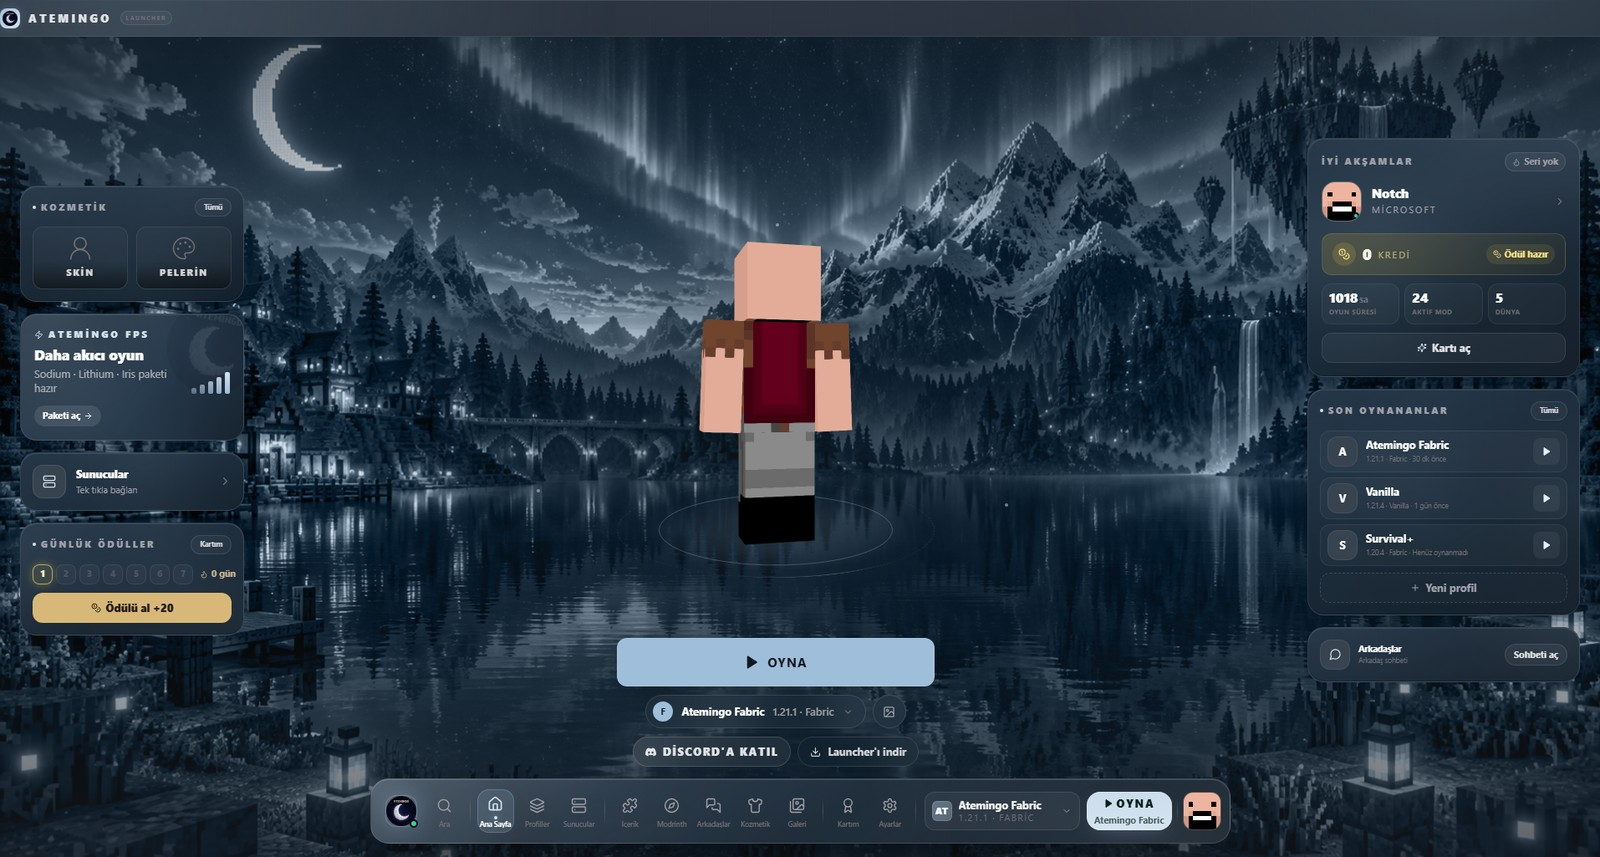
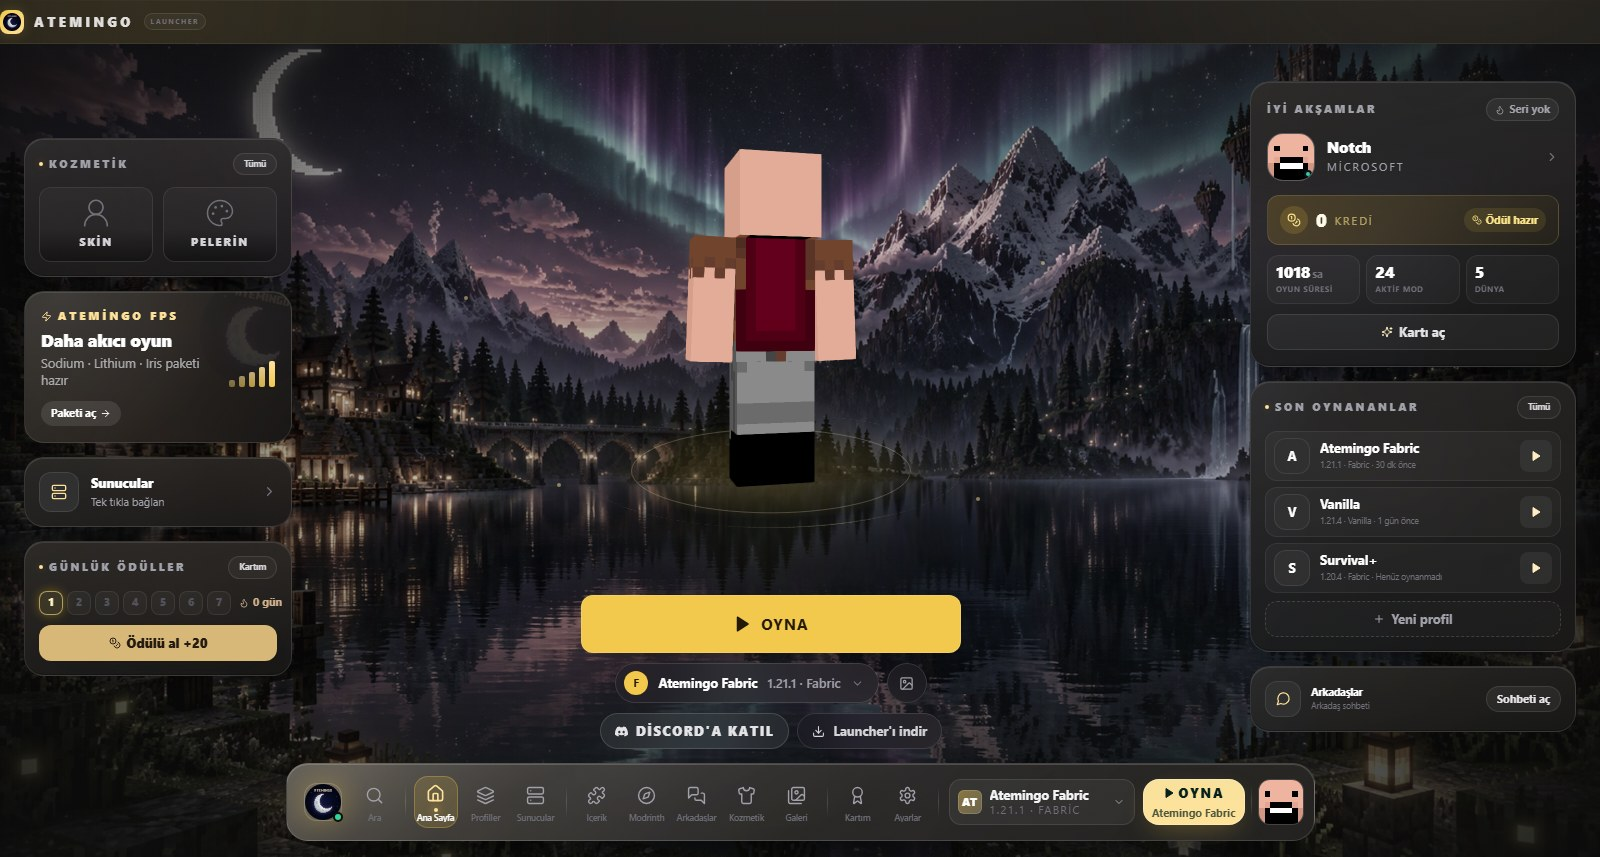
Site: 2.1.4 altın tema ekran görüntüsü ve SEO güncellemesi

diff --git a/index.html b/index.html
@@ -3,21 +3,66 @@
   <head>
     <meta charset="UTF-8" />
     <meta name="viewport" content="width=device-width, initial-scale=1" />
-    <meta name="theme-color" content="#090716" />
+    <meta name="theme-color" content="#0d0c0b" />
     <meta
       name="description"
-      content="Atemingo Launcher ile Minecraft profillerini, modlarını ve sunucularını tek bir yerden yönet. Windows ve Linux için ücretsiz."
+      content="Atemingo Launcher ile Minecraft profillerini, Modrinth modlarını, sunucularını, pelerinlerini ve nişangahlarını tek ekrandan yönet. Windows 10/11 ve Linux için ücretsiz."
+    />
+    <meta
+      name="keywords"
+      content="atemingo, minecraft launcher, ücretsiz minecraft launcher, modrinth, fabric, minecraft mod, minecraft sunucu, pelerin, crosshair, linux minecraft launcher"
     />
     <meta name="color-scheme" content="dark" />
+    <link rel="canonical" href="https://atemingo.github.io/AtemingoLauncher/" />
     <meta property="og:type" content="website" />
-    <meta property="og:title" content="Atemingo Launcher — Macera burada başlar" />
+    <meta property="og:site_name" content="Atemingo Launcher" />
+    <meta property="og:locale" content="tr_TR" />
+    <meta property="og:locale:alternate" content="en_US" />
+    <meta property="og:url" content="https://atemingo.github.io/AtemingoLauncher/" />
+    <meta property="og:title" content="Atemingo Launcher — Ücretsiz Minecraft Launcher (Windows &amp; Linux)" />
     <meta
       property="og:description"
-      content="Profiller, modlar, Modrinth, sunucular ve arkadaşlar. Minecraft'ı tek tıkla, kendi tarzında oyna."
+      content="Profiller, Modrinth modları, sunucular, pelerin ve nişangah stüdyosu tek ekranda. Windows 10/11 ve Linux için ücretsiz."
     />
     <meta property="og:image" content="https://atemingo.github.io/AtemingoLauncher/launcher.jpg" />
+    <meta property="og:image:width" content="1600" />
+    <meta property="og:image:height" content="857" />
+    <meta property="og:image:alt" content="Atemingo Launcher ana ekranı — altın temalı arayüz" />
     <meta name="twitter:card" content="summary_large_image" />
-    <title>Atemingo Launcher — Macera burada başlar</title>
+    <meta name="twitter:title" content="Atemingo Launcher — Ücretsiz Minecraft Launcher" />
+    <meta
+      name="twitter:description"
+      content="Profiller, Modrinth modları, sunucular, pelerin ve nişangah stüdyosu tek ekranda. Windows ve Linux için ücretsiz."
+    />
+    <meta name="twitter:image" content="https://atemingo.github.io/AtemingoLauncher/launcher.jpg" />
+    <title>Atemingo Launcher — Ücretsiz Minecraft Launcher (Windows &amp; Linux)</title>
+    <script type="application/ld+json" id="ld-json">
+      {
+        "@context": "https://schema.org",
+        "@type": "SoftwareApplication",
+        "name": "Atemingo Launcher",
+        "applicationCategory": "GameApplication",
+        "applicationSubCategory": "Minecraft Launcher",
+        "operatingSystem": "Windows 10, Windows 11, Linux",
+        "softwareVersion": "2.1.4",
+        "inLanguage": ["tr", "en"],
+        "url": "https://atemingo.github.io/AtemingoLauncher/",
+        "downloadUrl": "https://github.com/atemingo/AtemingoLauncher/releases/latest",
+        "image": "https://atemingo.github.io/AtemingoLauncher/launcher.jpg",
+        "description": "Atemingo Launcher ile Minecraft profillerini, Modrinth modlarını, sunucularını, pelerinlerini ve nişangahlarını tek ekrandan yönet. Windows 10/11 ve Linux için ücretsiz.",
+        "offers": {
+          "@type": "Offer",
+          "price": "0",
+          "priceCurrency": "TRY",
+          "availability": "https://schema.org/InStock"
+        },
+        "author": {
+          "@type": "Organization",
+          "name": "Atemingo",
+          "url": "https://atemingo.github.io/AtemingoLauncher/"
+        }
+      }
+    </script>
     <link rel="icon" type="image/png" href="./icon.png" />
     <link rel="apple-touch-icon" href="./icon.png" />
     <link rel="preconnect" href="https://fonts.googleapis.com" />
@@ -1324,10 +1369,10 @@
 
         const I18N = {
           tr: {
-            title: "Atemingo Launcher — Macera burada başlar",
-            desc: "Atemingo Launcher ile Minecraft profillerini, modlarını ve sunucularını tek bir yerden yönet. Windows ve Linux için ücretsiz.",
-            ogTitle: "Atemingo Launcher — Macera burada başlar",
-            ogDesc: "Profiller, modlar, Modrinth, sunucular ve arkadaşlar. Minecraft'ı tek tıkla, kendi tarzında oyna.",
+            title: "Atemingo Launcher — Ücretsiz Minecraft Launcher (Windows & Linux)",
+            desc: "Atemingo Launcher ile Minecraft profillerini, Modrinth modlarını, sunucularını, pelerinlerini ve nişangahlarını tek ekrandan yönet. Windows 10/11 ve Linux için ücretsiz.",
+            ogTitle: "Atemingo Launcher — Ücretsiz Minecraft Launcher (Windows & Linux)",
+            ogDesc: "Profiller, Modrinth modları, sunucular, pelerin ve nişangah stüdyosu tek ekranda. Windows 10/11 ve Linux için ücretsiz.",
             brandAria: "Atemingo Launcher ana sayfa",
             navAria: "Ana menü",
             langAria: "Dil seçimi",
@@ -1404,10 +1449,10 @@
             linuxUnreleased: "Linux sürümü henüz yayınlanmadı · Windows sürümü hazır"
           },
           en: {
-            title: "Atemingo Launcher — Adventure starts here",
-            desc: "Manage your Minecraft profiles, mods and servers in one place with Atemingo Launcher. Free for Windows and Linux.",
-            ogTitle: "Atemingo Launcher — Adventure starts here",
-            ogDesc: "Profiles, mods, Modrinth, servers and friends. Play Minecraft in one click, your way.",
+            title: "Atemingo Launcher — Free Minecraft Launcher (Windows & Linux)",
+            desc: "Manage your Minecraft profiles, Modrinth mods, servers, capes and crosshairs in one place with Atemingo Launcher. Free for Windows 10/11 and Linux.",
+            ogTitle: "Atemingo Launcher — Free Minecraft Launcher (Windows & Linux)",
+            ogDesc: "Profiles, Modrinth mods, servers, cape and crosshair studio in one place. Free for Windows and Linux.",
             brandAria: "Atemingo Launcher home",
             navAria: "Main menu",
             langAria: "Language",
@@ -1619,6 +1664,8 @@
           setMeta("name", "description", d.desc);
           setMeta("property", "og:title", d.ogTitle);
           setMeta("property", "og:description", d.ogDesc);
+          setMeta("name", "twitter:title", d.ogTitle);
+          setMeta("name", "twitter:description", d.ogDesc);
 
           document.querySelectorAll("[data-i18n]").forEach(function (el) {
             const value = d[el.getAttribute("data-i18n")];
@@ -1660,6 +1707,8 @@
             if (!winUrl) throw new Error("Güvenli olmayan indirme adresi");
 
             info = { version: data.version, notes: data.notes };
+            const ld = document.getElementById("ld-json");
+            if (ld) ld.textContent = ld.textContent.replace(/"softwareVersion": "[^"]*"/, '"softwareVersion": "' + info.version + '"');
             linuxUrl = httpsOnly(linuxUrlFrom(data));
             debUrl = httpsOnly(linuxDebFrom(data));
 
